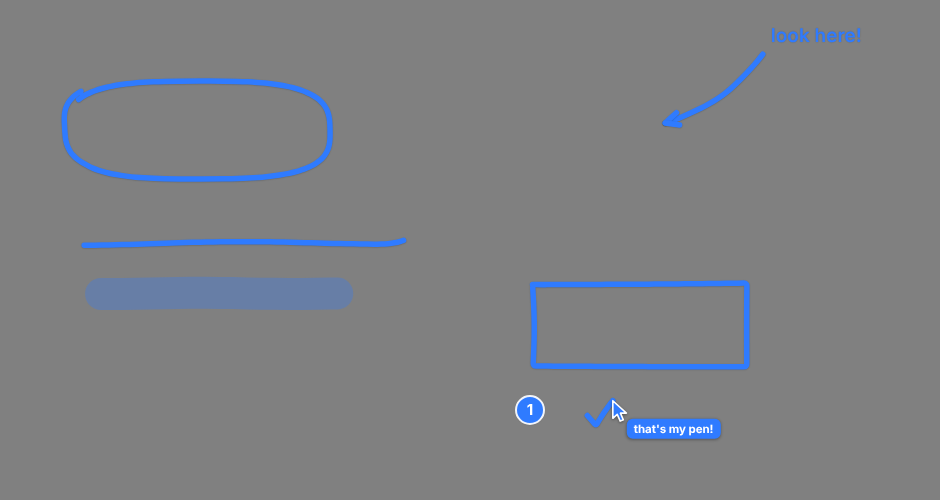
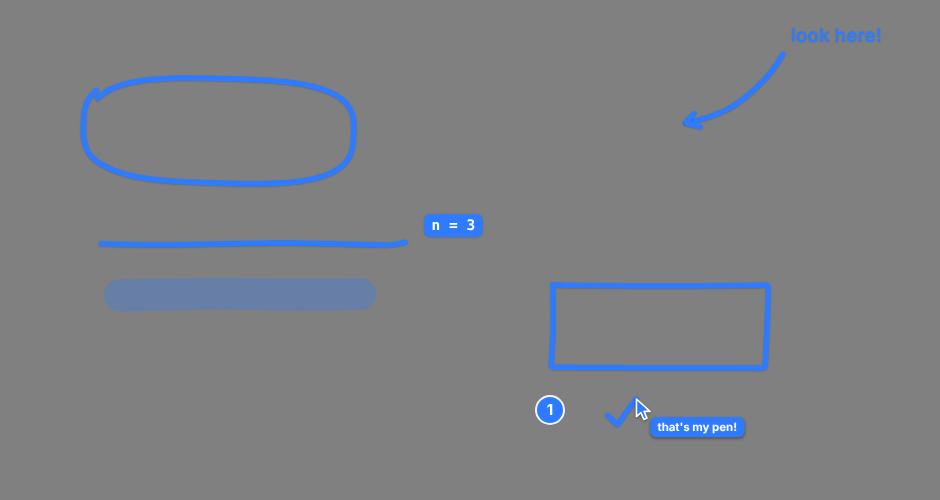
Whiteboard loop sleeps when idle; the ink preview shows a value chip
Claude-Session: https://claude.ai/code/session_01VVPcjyjKRxzgYmnrttYQww

diff --git a/src/renderer/whiteboard/main.tsx b/src/renderer/whiteboard/main.tsx
@@ -21,6 +21,12 @@ type Tool = 'pen' | 'eraser';
 const items = new Map<string, InkItem>();
 const renderer = new InkRenderer();
 let dirty = true;
+/** Wakes the render loop (it sleeps while nothing moves; set up with the canvas). */
+let wakeLoop: () => void = () => undefined;
+function markDirty(): void {
+  dirty = true;
+  wakeLoop();
+}
 let onItemsChanged: () => void = () => undefined;
 
 function applyInk(op: InkOp): void {
@@ -55,7 +61,7 @@ function applyInk(op: InkOp): void {
       }
       break;
   }
-  dirty = true;
+  markDirty();
   onItemsChanged();
 }
 
@@ -88,7 +94,7 @@ function Board() {
       items.clear();
       renderer.clearCache();
       for (const it of m.items) items.set(it.id, it);
-      dirty = true;
+      markDirty();
       setCount(items.size);
     };
     void ipc.invoke('whiteboard:state').then(init).catch(() => undefined);
@@ -102,13 +108,13 @@ function Board() {
         items.clear();
         renderer.clearCache();
         for (const it of m.items) items.set(it.id, it);
-        dirty = true;
+        markDirty();
         setCount(items.size);
       }),
       ipc.on('whiteboard:ink', (op) => applyInk(op)),
       ipc.on('session:snapshot', (s) => setSnap(s)),
     ];
-    void document.fonts.ready.then(() => (dirty = true));
+    void document.fonts.ready.then(() => markDirty());
     return () => offs.forEach((o) => o());
   }, []);
 
@@ -124,7 +130,7 @@ function Board() {
       canvas.height = Math.round(window.innerHeight * dpr);
       canvas.style.width = `${window.innerWidth}px`;
       canvas.style.height = `${window.innerHeight}px`;
-      dirty = true;
+      markDirty();
     };
     window.addEventListener('resize', resize);
     resize();
@@ -157,11 +163,28 @@ function Board() {
         dirty = false;
       }
       was = anim;
-      raf = requestAnimationFrame(frame);
+      // Sleep until something changes (an op, a stroke) or the next scheduled mark or fade.
+      const next = anim ? now : renderer.nextChange(list, now);
+      if (next <= now + 20) wake();
+      else if (Number.isFinite(next)) sleep = window.setTimeout(wake, Math.max(0, next - Date.now() - 12));
     };
-    raf = requestAnimationFrame(frame);
+    let sleep = 0;
+    const wake = () => {
+      if (sleep) {
+        window.clearTimeout(sleep);
+        sleep = 0;
+      }
+      if (!raf) raf = requestAnimationFrame(() => {
+        raf = 0;
+        frame();
+      });
+    };
+    wakeLoop = wake;
+    wake();
     return () => {
       cancelAnimationFrame(raf);
+      window.clearTimeout(sleep);
+      wakeLoop = () => undefined;
       window.removeEventListener('resize', resize);
     };
   }, []);
@@ -188,7 +211,7 @@ function Board() {
     if (toolRef.current === 'eraser') return eraseAt(p);
     live.current = [p];
     setDrawing(true);
-    dirty = true;
+    markDirty();
   };
   const onMove = (e: React.PointerEvent) => {
     if (toolRef.current === 'eraser') {
@@ -203,7 +226,7 @@ function Board() {
       const last = live.current[live.current.length - 1];
       if (Math.hypot(p.x - last.x, p.y - last.y) >= 0.8) live.current.push(p);
     }
-    dirty = true;
+    markDirty();
   };
   const onUp = () => {
     const pts = live.current;
@@ -211,7 +234,7 @@ function Board() {
     setDrawing(false);
     // A click without a drag is a dot, like Tuple's paint.
     if (pts && pts.length) ipc.send('whiteboard:stroke', { id: `ws-${Date.now()}`, points: pts, times: [], straight: false, displayId: '', surface: 'whiteboard' });
-    dirty = true;
+    markDirty();
   };
 
   const tutorBusy = snap?.activity === 'speaking' || snap?.activity === 'thinking';

diff --git a/src/main/session/features/visual.ts b/src/main/session/features/visual.ts
@@ -613,6 +613,7 @@ export class VisualFeature {
     const specs: MarkSpec[] = [
       { kind: 'circle', rect: box(-330, -150, 220, 60), label: 'circle' },
       { kind: 'underline', rect: box(-330, -40, 300, 30) },
+      { kind: 'value', rect: box(-330, -40, 300, 30), text: 'n = 3' },
       { kind: 'highlight', rect: box(-330, 30, 260, 28) },
       { kind: 'arrow', rect: box(120, -120, 160, 50), text: 'look here!' },
       { kind: 'box', rect: box(120, 40, 200, 70) },

diff --git a/README.md b/README.md
@@ -49,7 +49,7 @@ overlay, cursor and ink are the same.
 | ![Round 1: wide bar, banner, big step card, glowing cursor](docs/screenshots/declutter-before.png) ![Round 2: pill, quiet step card, flat cursor](docs/screenshots/declutter-after.png) | **The same moment, before and after round 2** (a guided step waiting for your click): the bar is a pill, the demo banner is a badge, the "can see" pill is the eye in the bar, the step list folds to one line after a moment, and the cursor and ring are flat, like Tuple's. |
 | ![The session pill](docs/screenshots/hud-pill.png) ![The pill opened on hover](docs/screenshots/hud-open.png) | **The session pill** shows the timer, your mic, Ada's state, the eye (she can see this screen) and End. Hover it for everything else; drag it anywhere — it remembers the spot per display. |
 | ![Ada circles the Submit button on a 2× display](docs/screenshots/circle-retina.png) | **Pointing at 2×, in Tuple's brush.** One flat colour, a constant-width round-ended stroke, no glow. The circle is fitted to the button's real edges, found by grounding on a full-resolution capture. |
-| ![Every mark kind](docs/screenshots/pen-marks.png) | **Her pen.** Circles, underlines, highlights, arrows, boxes, checks and step badges, drawn at a human pace (each stroke eases in and out, slows into corners, and the pen lifts between strokes) and never twice the same. |
+| ![Every mark kind](docs/screenshots/pen-marks.png) | **Her pen.** Circles, underlines, highlights, arrows, boxes, checks, step badges and value chips, drawn at a human pace (each stroke eases in and out, slows into corners, and the pen lifts between strokes) and never twice the same. |
 | ![A typed note while typing, then done](docs/screenshots/typed-note.png) | **Typed notes, like Tuple's text tool.** Letter by letter in the system font, with a caret and a dotted outline while she types. (Handwriting is a setting.) |
 | ![Ada's cursor following a line](docs/screenshots/follow-line.png) ![Ada's cursor sweeping down a function](docs/screenshots/sweep.png) | **Her cursor as a pointer.** Most of the time she just points: she follows a line under the text as she reads it, runs down a block line by line, or rests on the thing she means — nothing drawn, no label. |
 | ![Ada traces factorial(2): value chips after each line](docs/screenshots/trace.png) | **She traces your code like a debugger.** "What does this return?" — her cursor skims each line as it runs while she says what happens, and the values appear just after the line's end in small chips. When a line runs again (here the recursive call, `n = 2` → `n = 1`), its value updates in place. |

diff --git a/DECISIONS.md b/DECISIONS.md
@@ -392,6 +392,8 @@ pointer, which neither capture contains, is drawn in where the scene moved it). 
 frames into small GIFs (60–110 KB each). Rejected: recording the X screen directly (the
 compositor's transparent overlays aren't in root-window captures) and screenshots in a loop
 (4–5 fps).
+The whiteboard's render loop now sleeps the same way as the overlays' (D-038), and the ink
+preview (Settings → Cursor & ink → Preview) includes a value chip.
 
 ### D-042 · A dropped connection doesn't end the session
 Flaky Wi-Fi, a captive portal or a closed lid used to end the session after ~15 s of failed
